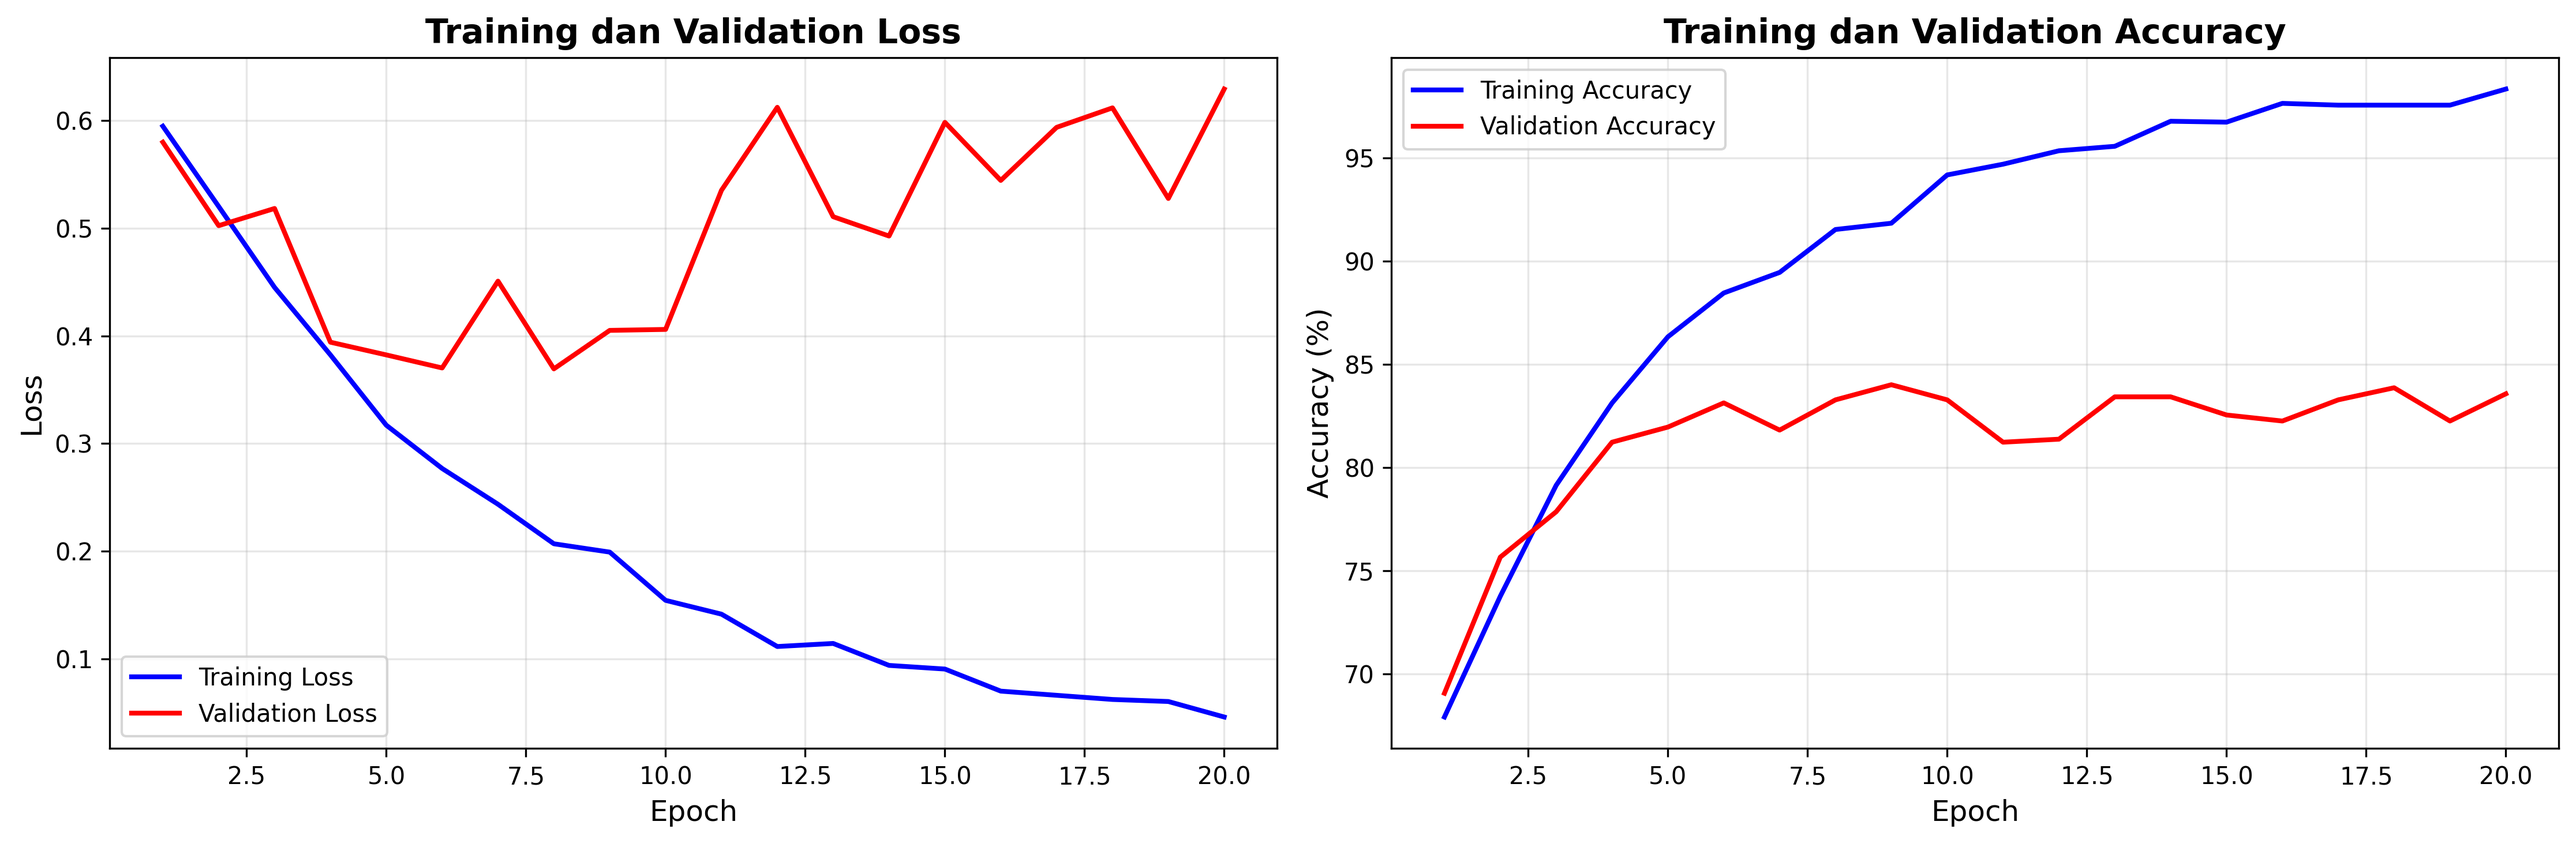
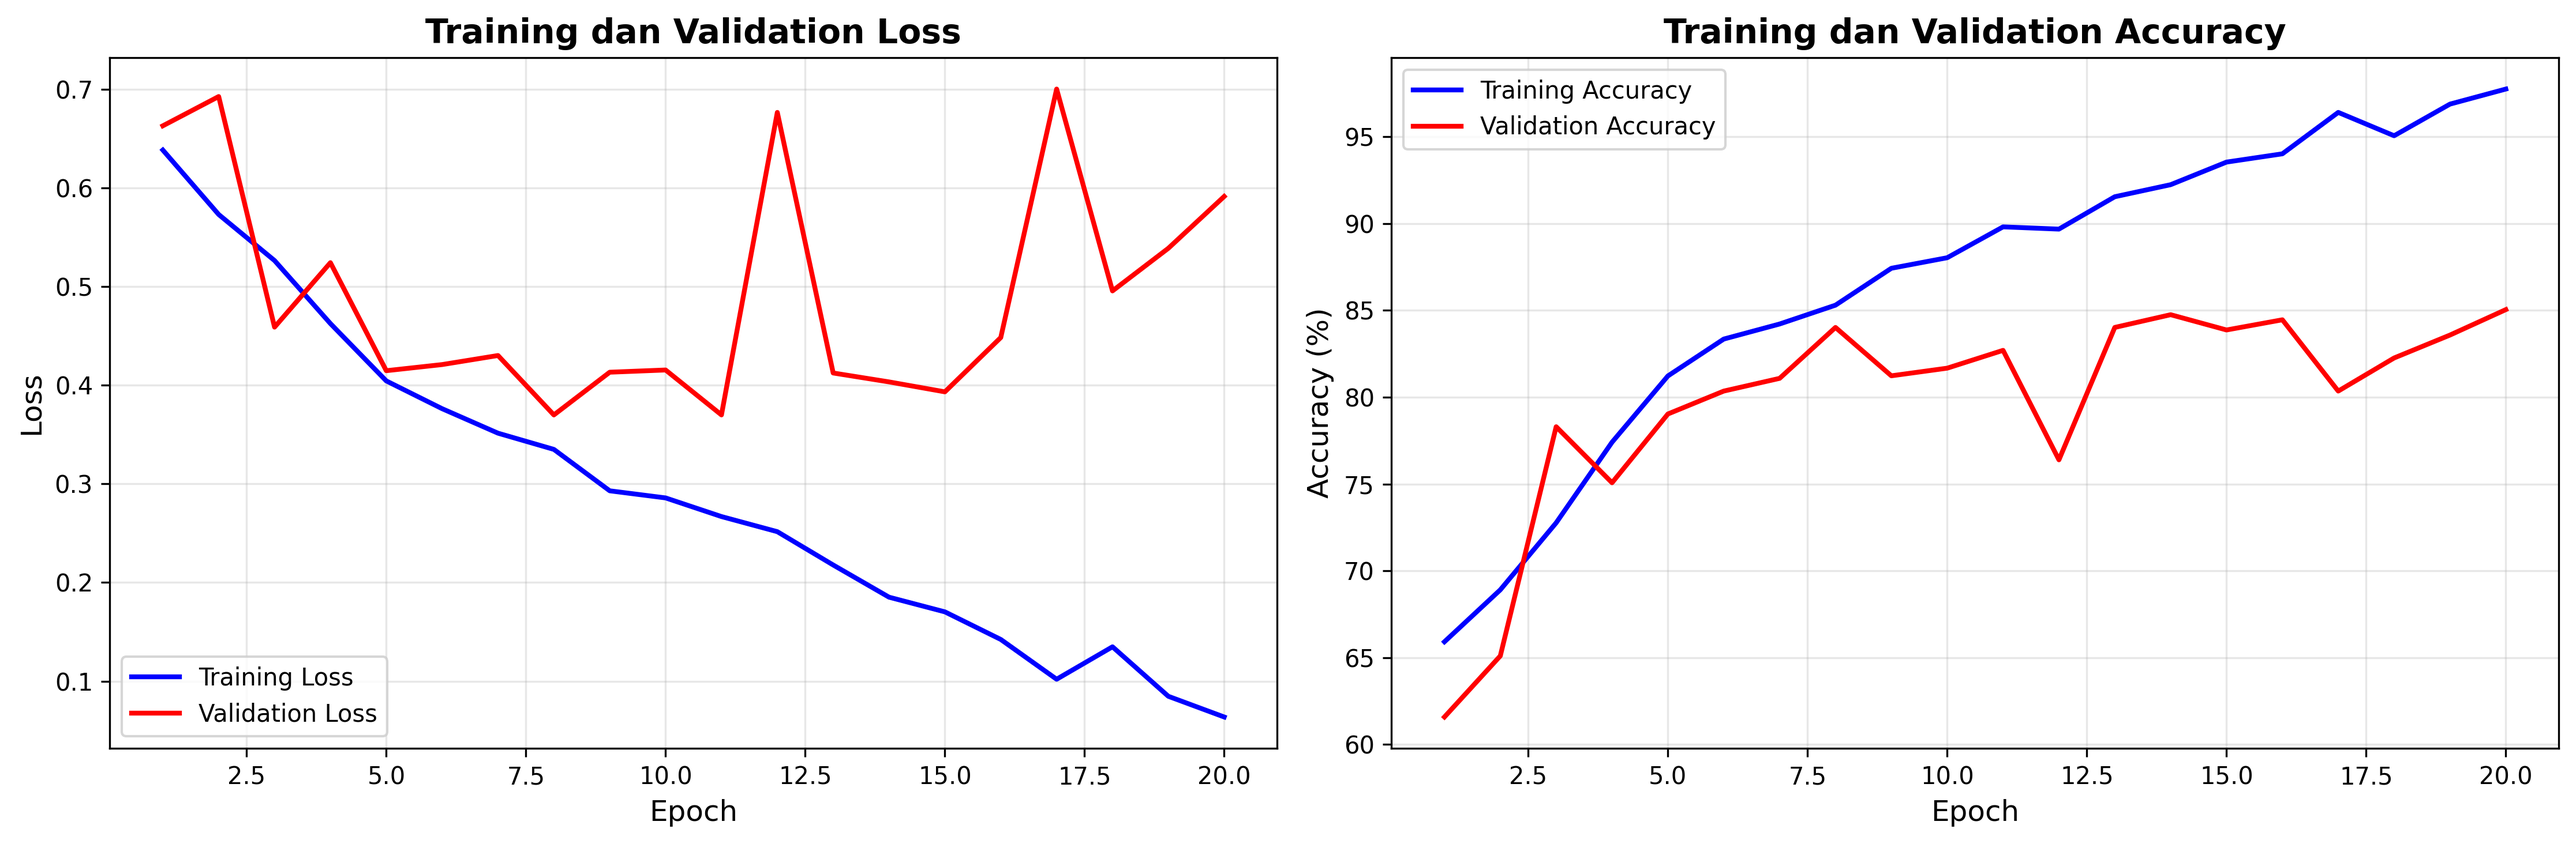
update

diff --git a/train.py b/train.py
@@ -4,14 +4,14 @@ import torch
 import torch.nn as nn
 import torch.optim as optim
 from datareader import get_data_loaders, NEW_CLASS_NAMES
-from densenet_model import DenseNet121
+from resnet_model import ResNet
 import matplotlib.pyplot as plt
 from utils import plot_training_history, visualize_random_val_predictions
 
 # --- Hyperparameter ---
 EPOCHS = 20
-BATCH_SIZE = 8
-LEARNING_RATE = 0.0001
+BATCH_SIZE = 10
+LEARNING_RATE = 0.0003
 
 #Menampilkan plot riwayat training dan validasi setelah training selesai.
 
@@ -20,7 +20,7 @@ def train():
     train_loader, val_loader, num_classes, in_channels = get_data_loaders(BATCH_SIZE)
     
     # 2. Inisialisasi Model
-    model = DenseNet121(in_channels=in_channels, num_classes=num_classes)
+    model = ResNet(in_channels=in_channels, num_classes=num_classes)
     print("\nMenggunakan model: ResNet")
     print(model)
     
